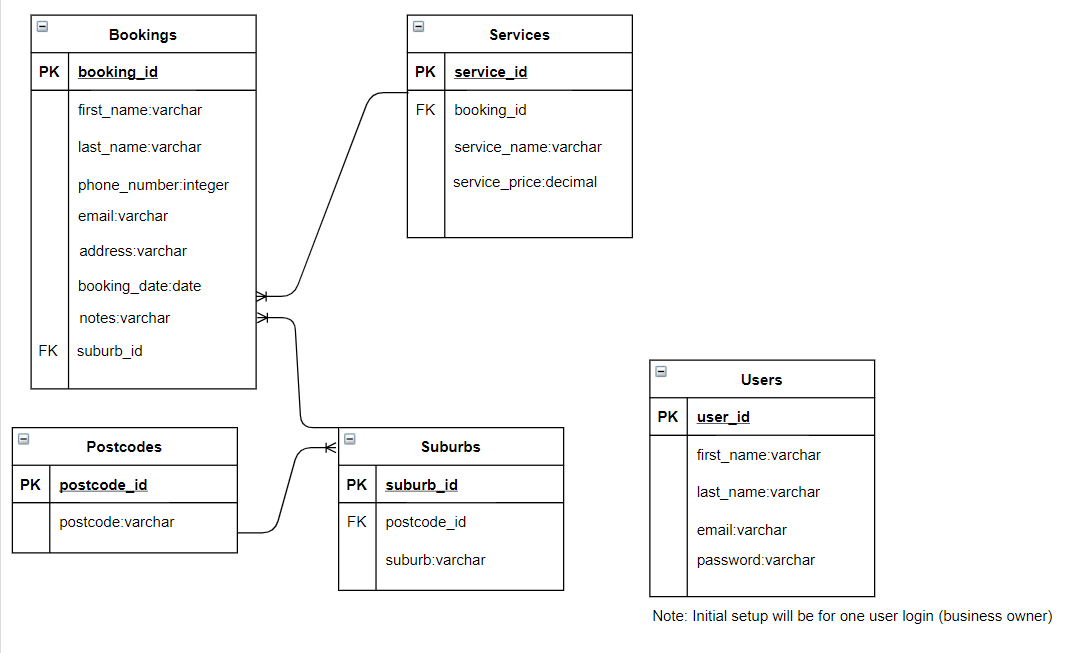
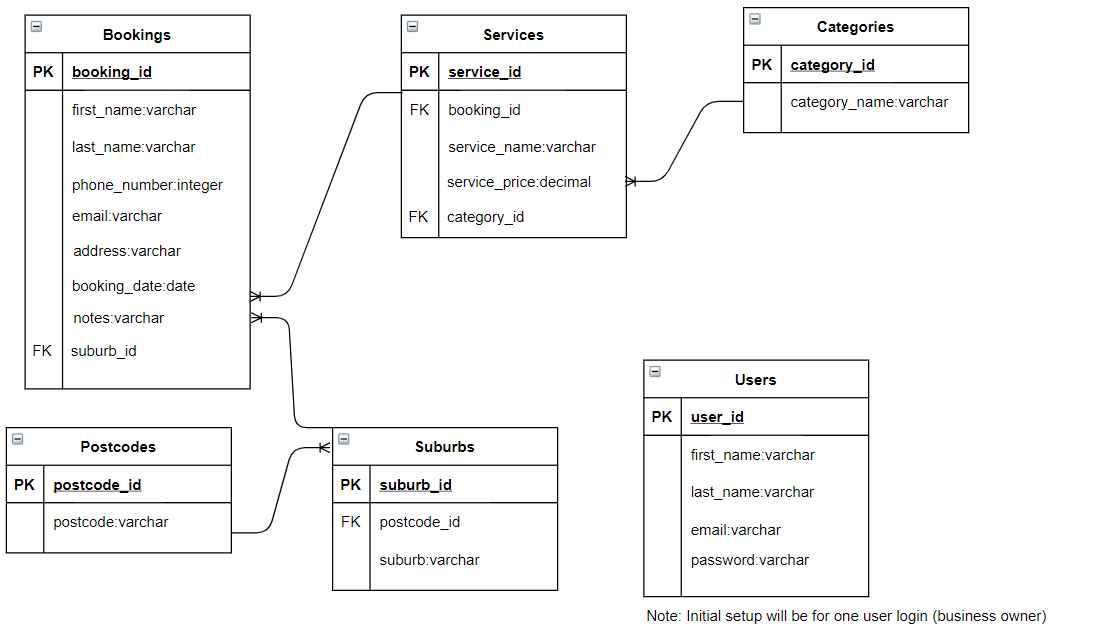
Updated ERD to include categories

diff --git a/README.md b/README.md
@@ -51,12 +51,12 @@ Larry's Lawncare website is aimed at people who are needing assistance with clea
 * Postman
 
 ### Dataflow Diagram
-![Dataflow Diagram](/docs/DataFlowDiagram.jpeg)
+![Dataflow Diagram](./docs/DataFlowDiagram.jpeg)
 
 
 
 ### Application Architecture Diagram
-![Application Architecture Diagram](/docs/AppArchitectureDiagram.png)
+![Application Architecture Diagram](./docs/AppArchitectureDiagram.png)
 
 
 #### User Stories
@@ -64,6 +64,7 @@ Larry's Lawncare website is aimed at people who are needing assistance with clea
 **User Stories**
 * As a customer, I want to be able to complete a booking form so that I can make a booking for a lawn service
     * Revised: Add autocomplete option onto address fields so that customer has a faster and more simplified booking experience
+    * Revised edit: Autocomplete option a 'nice to have' feature - will implement if all other features work as expected.
 * As a customer, I want to be able to contact the company so that I can confirm/cancel my appointment
 * As a prospective customer, I want to be able to view a service list so that I can see prices and check that the business caters to my lawn requirements
 * As a prospective customer, I want to be able to view examples of the business' work so that I can see the quality of their work and choose whether I book with them
@@ -78,46 +79,46 @@ Larry's Lawncare website is aimed at people who are needing assistance with clea
 * Added: As a user, I want to access a website with a responsive layout so I can easily use the website on a number of devices
 
 ### Wireframes for multiple standard screen sizes, created using industry standard software
-![Desktop about/landing page](/docs/desktop1.png)<br>
-![Desktop services page](/docs/desktop2.png)<br>
-![Desktop booking page](/docs/desktop3.png)<br>
-![Desktop contact page](/docs/desktop4.png)<br>
-![Desktop admin login page](/docs/desktop5.png)<br>
-![Desktop admin view all page](/docs/desktop6.png)<br>
-![Desktop admin view booking page](/docs/desktop7.png)<br>
-![Desktop new booking page](/docs/desktop8.png)<br>
-![Desktop edit booking page](/docs/desktop9.png)<br>
-![Desktop admin delete confirmation alert page](/docs/desktop10.png)
+![Desktop about/landing page](./docs/desktop1.png)<br>
+![Desktop services page](./docs/desktop2.png)<br>
+![Desktop booking page](./docs/desktop3.png)<br>
+![Desktop contact page](./docs/desktop4.png)<br>
+![Desktop admin login page](./docs/desktop5.png)<br>
+![Desktop admin view all page](./docs/desktop6.png)<br>
+![Desktop admin view booking page](./docs/desktop7.png)<br>
+![Desktop new booking page](./docs/desktop8.png)<br>
+![Desktop edit booking page](./docs/desktop9.png)<br>
+![Desktop admin delete confirmation alert page](./docs/desktop10.png)
 
 
-![Tablet about/landing page](/docs/tablet1.png)<br>
-![Tablet services page](/docs/tablet2.png)<br>
-![Tablet booking page](/docs/tablet3.png)<br>
-![Tablet contact page](/docs/tablet4.png)<br>
-![Tablet admin login page](/docs/tablet5.png)<br>
-![Tablet admin view all page](/docs/tablet6.png)<br>
-![Tablet admin view booking page](/docs/tablet7.png)<br>
-![Tablet new booking page](/docs/tablet8.png)<br>
-![Tablet edit booking page](/docs/tablet9.png)<br>
-![Tablet admin delete confirmation alert page](/docs/tablet10.png)
+![Tablet about/landing page](./docs/tablet1.png)<br>
+![Tablet services page](./docs/tablet2.png)<br>
+![Tablet booking page](./docs/tablet3.png)<br>
+![Tablet contact page](./docs/tablet4.png)<br>
+![Tablet admin login page](./docs/tablet5.png)<br>
+![Tablet admin view all page](./docs/tablet6.png)<br>
+![Tablet admin view booking page](./docs/tablet7.png)<br>
+![Tablet new booking page](./docs/tablet8.png)<br>
+![Tablet edit booking page](./docs/tablet9.png)<br>
+![Tablet admin delete confirmation alert page](./docs/tablet10.png)
 
 
-![Mobile about/landing page](/docs/mobile1.png)<br>
-![Mobile services page](/docs/mobile2.png)<br>
-![Mobile booking page](/docs/mobile3.png)<br>
-![Mobile contact page](/docs/mobile4.png)<br>
-![Mobile admin login page](/docs/mobile5.png)<br>
-![Mobile admin view all page](/docs/mobile6.png)<br>
-![Mobile admin view booking page](/docs/mobile7.png)<br>
-![Mobile new booking page](/docs/mobile8.png)<br>
-![Mobile edit booking page](/docs/mobile9.png)<br>
-![Mobile admin delete confirmation alert page](/docs/mobile10.png)
+![Mobile about/landing page](./docs/mobile1.png)<br>
+![Mobile services page](./docs/mobile2.png)<br>
+![Mobile booking page](./docs/mobile3.png)<br>
+![Mobile contact page](./docs/mobile4.png)<br>
+![Mobile admin login page](./docs/mobile5.png)<br>
+![Mobile admin view all page](./docs/mobile6.png)<br>
+![Mobile admin view booking page](./docs/mobile7.png)<br>
+![Mobile new booking page](./docs/mobile8.png)<br>
+![Mobile edit booking page](./docs/mobile9.png)<br>
+![Mobile admin delete confirmation alert page](./docs/mobile10.png)
 
 #### Site walkthrough
-![Relationships between screens](/docs/relationships.png)
+![Relationships between screens](./docs/relationships.png)
 
 #### Client changes
-![Wireframe changes](/docs/changes.png)
+![Wireframe changes](./docs/changes.png)
 1. Client requested a search bar to be added on the view all bookings page. Client requested the time column be removed as they cannot guarantee appointment times.
 2. Client requested the time field be removed from the form on the booking page. The submit button for the booking form had been omitted.
 3. The login button had been omitted on the Admin login page.
@@ -143,11 +144,11 @@ Each morning, the team will have a brief catch up to discuss what they have work
 ### Screenshots of Trello board throughout the duration of the project
 Link to Trello: https://trello.com/b/uraS52xC/t3a2-react-app
 
-![Day 1](/docs/Trello1.png)
-![Day 2](/docs/Trello2.png)
-![Day 3](/docs/Trello3.png)
-![Day 4](/docs/Trello4.png)
-![Day 5](/docs/Trello5.png)
+![Day 1](./docs/Trello1.png)
+![Day 2](./docs/Trello2.png)
+![Day 3](./docs/Trello3.png)
+![Day 4](./docs/Trello4.png)
+![Day 5](./docs/Trello5.png)
 
 
 ### ERD Diagram for Database Structure
